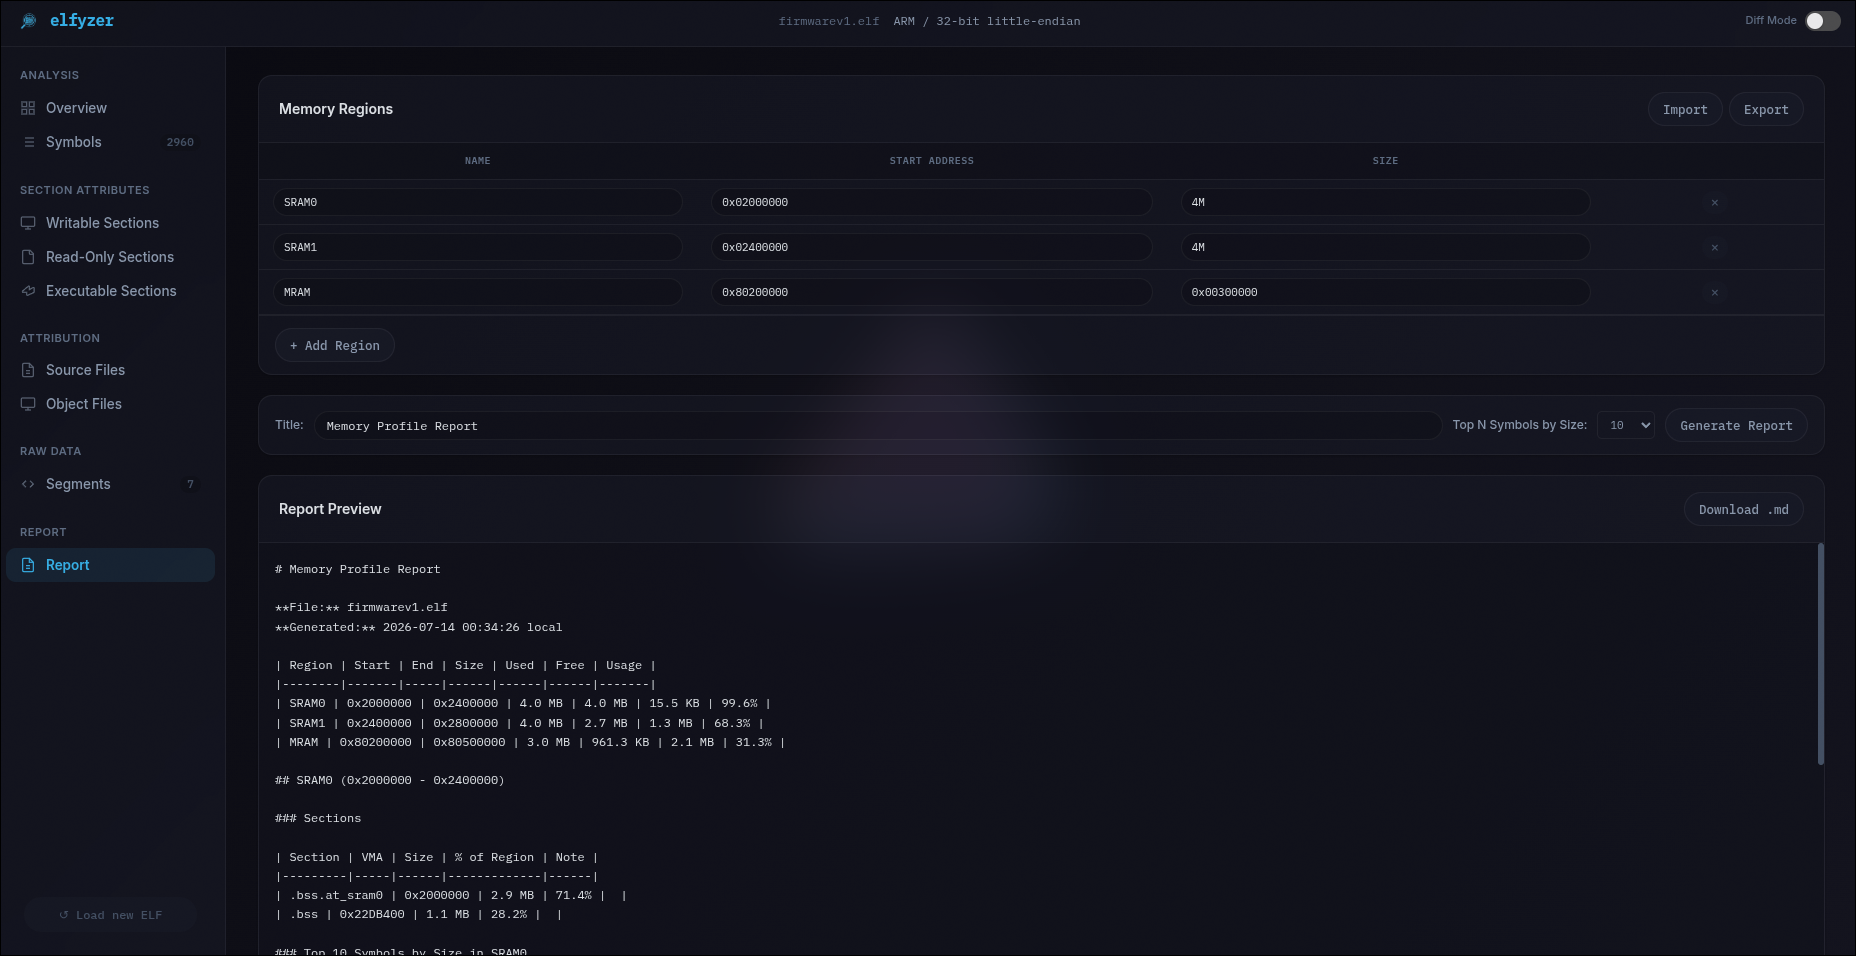
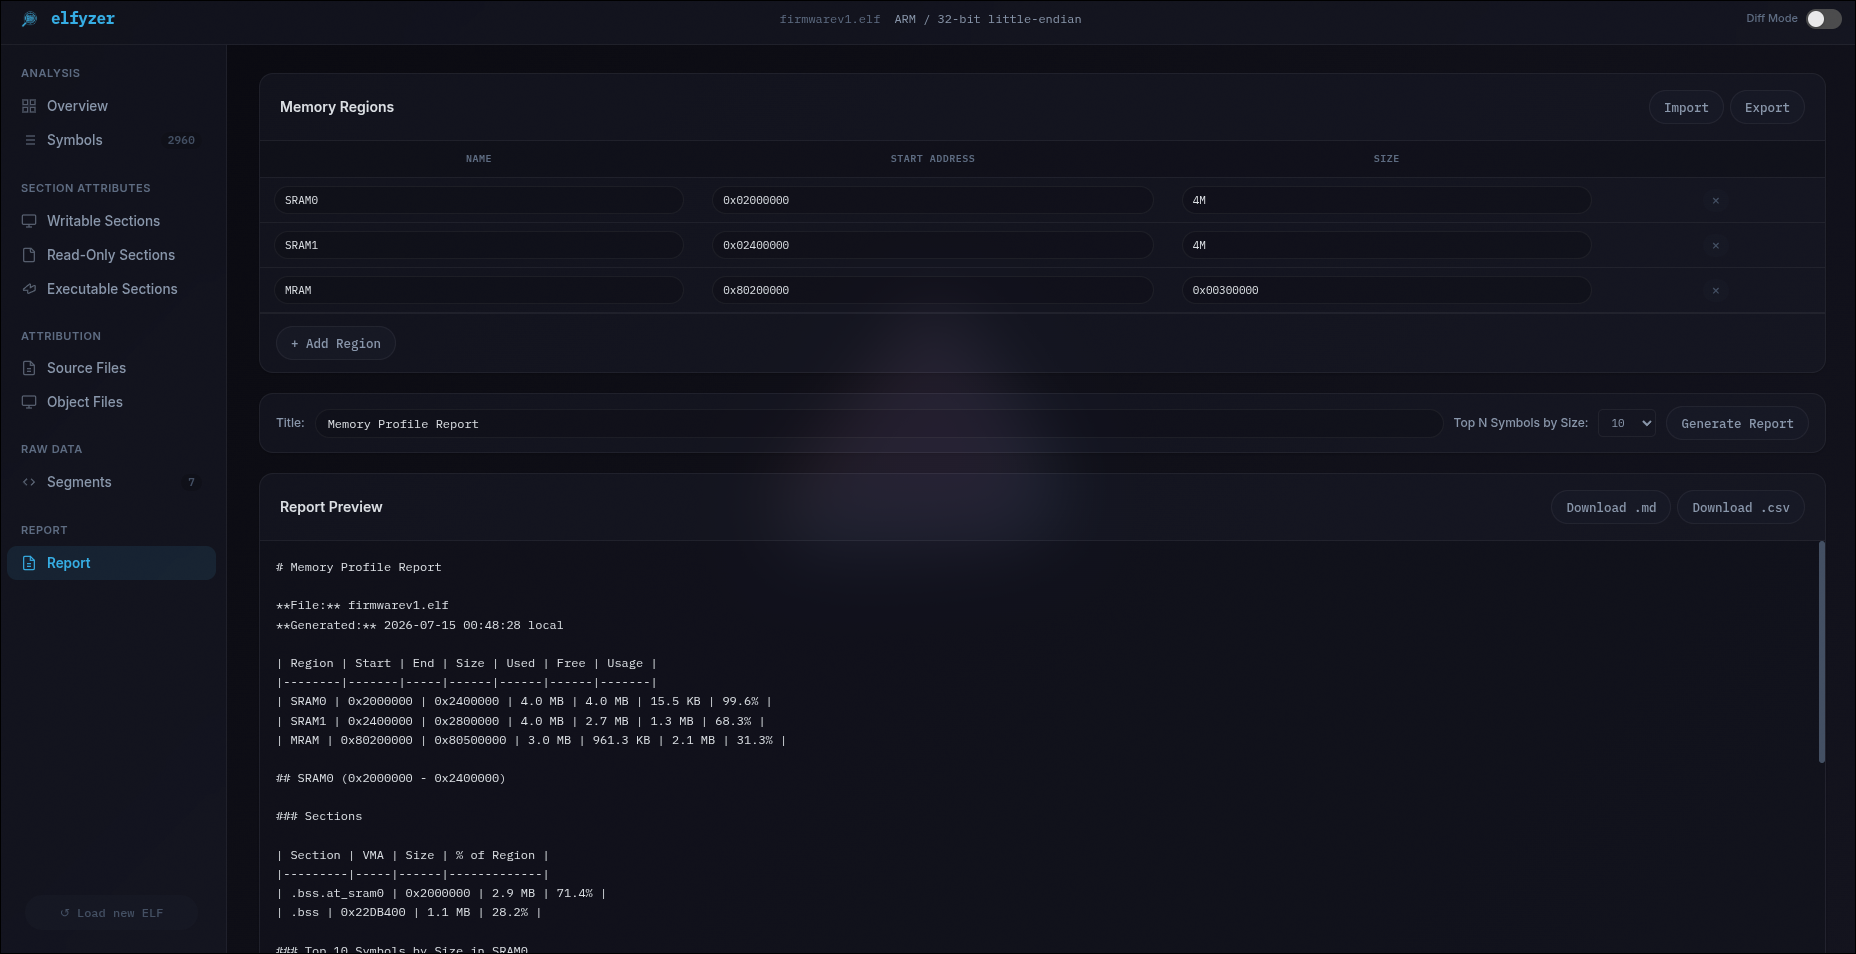
elfyzer v0.3.1: add CSV export for Memory Profile Report

diff --git a/src/elfyzer/static/js/report.js b/src/elfyzer/static/js/report.js
@@ -36,6 +36,16 @@
       .replace(/\r?\n/g, ' ');
   }
 
+  function csvEscape(str) {
+    if (str == null) return '';
+    str = String(str);
+    if (/^0x/i.test(str)) return '="' + str + '"';
+    if (str.indexOf(',') >= 0 || str.indexOf('"') >= 0 || str.indexOf('\n') >= 0 || str.indexOf('\r') >= 0) {
+      return '"' + str.replace(/"/g, '""') + '"';
+    }
+    return str;
+  }
+
   function byId(id) {
     return document.getElementById(id);
   }
@@ -440,7 +450,10 @@
         '<div class="card">' +
           '<div class="card-header">' +
             '<span class="card-title">Report Preview</span>' +
-            '<button class="btn" id="download-md-btn">Download .md</button>' +
+            '<div style="display:flex;gap:6px;align-items:center;">' +
+              '<button class="btn" id="download-md-btn">Download .md</button>' +
+              '<button class="btn" id="download-csv-btn">Download .csv</button>' +
+            '</div>' +
           '</div>' +
           '<div class="card-body" style="padding:0;">' +
             '<pre id="report-markdown" style="margin:0;padding:16px;overflow:auto;max-height:600px;font-family:var(--font-mono);font-size:12px;line-height:1.6;color:var(--text);background:var(--inset-bg);border-radius:0 0 var(--radius-lg) var(--radius-lg);white-space:pre-wrap;word-break:break-word;"></pre>' +
@@ -575,8 +588,8 @@
     } else {
       lines.push('### Sections');
       lines.push('');
-      lines.push('| Section | VMA | Size | % of Region | Note |');
-      lines.push('|---------|-----|------|-------------|------|');
+      lines.push('| Section | VMA | Size | % of Region |');
+      lines.push('|---------|-----|------|-------------|');
 
       var all = rr.usage.sections.map(function (s) { return { s: s, clipped: false }; })
         .concat(rr.usage.clippedSections.map(function (s) { return { s: s, clipped: true }; }));
@@ -589,8 +602,7 @@
           '| ' + escMarkdown(s.name || '(unnamed)') +
           ' | ' + fmtHex(s.vma) +
           ' | ' + fmtReportBytes(s.actual_size) +
-          ' | ' + secPct + '%' +
-          ' | ' + (entry.clipped ? 'crosses boundary' : '') + ' |'
+          ' | ' + secPct + '% |'
         );
       });
       lines.push('');
@@ -619,6 +631,80 @@
     }
 
     return lines;
+  }
+
+  function buildCsvReport(title, filename, regionReports, topN, symbols) {
+    var lines = [];
+
+    lines.push(csvEscape(title));
+    if (filename) lines.push('"File:",' + csvEscape(filename));
+    lines.push('"Generated:",' + csvEscape(fmtTimestamp(new Date())));
+    lines.push('');
+
+    lines.push('"Region","Start","End","Size","Used","Free","Usage"');
+    regionReports.forEach(function (rr) {
+      var r = rr.region;
+      var pct = r.size > 0 ? ((rr.usage.used / r.size) * 100).toFixed(1) : '0.0';
+      lines.push(
+        csvEscape(r.name) + ',' +
+        csvEscape(fmtHex(r.start)) + ',' +
+        csvEscape(fmtHex(r.end)) + ',' +
+        csvEscape(fmtReportBytes(r.size)) + ',' +
+        csvEscape(fmtReportBytes(rr.usage.used)) + ',' +
+        csvEscape(fmtReportBytes(rr.usage.free)) + ',' +
+        csvEscape(pct + '%')
+      );
+    });
+    lines.push('');
+
+    regionReports.forEach(function (rr) {
+      var r = rr.region;
+      lines.push(csvEscape(r.name + ' (' + fmtHex(r.start) + ' - ' + fmtHex(r.end) + ')'));
+      lines.push('');
+
+      var all = rr.usage.sections.map(function (s) { return { s: s, clipped: false }; })
+        .concat(rr.usage.clippedSections.map(function (s) { return { s: s, clipped: true }; }));
+      all.sort(function (a, b) { return b.s.actual_size - a.s.actual_size; });
+
+      if (all.length === 0) {
+        lines.push('"No allocated sections in this region."');
+      } else {
+        lines.push('"Section","VMA","Size","% of Region"');
+        all.forEach(function (entry) {
+          var s = entry.s;
+          var secPct = r.size > 0 ? ((s.actual_size / r.size) * 100).toFixed(1) : '0.0';
+          lines.push(
+            csvEscape(s.name || '(unnamed)') + ',' +
+            csvEscape(fmtHex(s.vma)) + ',' +
+            csvEscape(fmtReportBytes(s.actual_size)) + ',' +
+            csvEscape(secPct + '%')
+          );
+        });
+      }
+      lines.push('');
+
+      var regionSymbols = (symbols || []).filter(function (s) {
+        return s && s.size > 0 && s.address !== undefined && s.address !== null &&
+          s.address >= r.start && s.address < r.end;
+      }).sort(function (a, b) { return b.size - a.size; });
+      var topSymbols = regionSymbols.slice(0, topN);
+
+      if (topSymbols.length > 0) {
+        lines.push(csvEscape('Top ' + Math.min(topN, regionSymbols.length) + ' Symbols by Size in ' + r.name));
+        lines.push('"Symbol","Size","Section","Address"');
+        topSymbols.forEach(function (sym) {
+          lines.push(
+            csvEscape(sym.name || '(unnamed)') + ',' +
+            csvEscape(fmtReportBytes(sym.size)) + ',' +
+            csvEscape(sym.section || '-') + ',' +
+            csvEscape(fmtHex(sym.address))
+          );
+        });
+        lines.push('');
+      }
+    });
+
+    return '\uFEFF' + lines.join('\n');
   }
 
   function generateReport() {
@@ -674,6 +760,14 @@
     if (dlBtn) {
       dlBtn.onclick = function () {
         downloadTextFile(safeFilename(title, 'md'), md, 'text/markdown');
+      };
+    }
+
+    var csvDlBtn = byId('download-csv-btn');
+    if (csvDlBtn) {
+      csvDlBtn.onclick = function () {
+        var csv = buildCsvReport(title, filename, regionReports, topN, symbols);
+        downloadTextFile(safeFilename(title, 'csv'), csv, 'text/csv');
       };
     }
   }

diff --git a/src/elfyzer/server.py b/src/elfyzer/server.py
@@ -33,7 +33,7 @@ HOST = "127.0.0.1"
 PORT = 8000
 URL = f"http://{HOST}:{PORT}"
 MAX_UPLOAD_SIZE = 500 * 1024 * 1024
-VERSION = "0.3.0"
+VERSION = "0.3.1"
 
 BANNER = f"elfyzer v{VERSION} - Firmware Memory Analysis Platform\nDashboard: {
     URL}"

diff --git a/README.md b/README.md
@@ -102,7 +102,7 @@ The dashboard opens at `http://127.0.0.1:8000`.
 | **Source Files** | DWARF-based source-level symbol attribution |
 | **Object Files** | Object file attribution derived from source paths |
 | **Segments** | Program header table with expandable detail |
-| **Report** | Define custom memory regions and generate a Markdown report with per-region section usage, free space, and top symbols by size. Import/export regions as JSON. |
+| **Report** | Define custom memory regions and generate a Markdown or CSV report with per-region section usage, free space, and top symbols by size. Import/export regions as JSON. |
 | **Diff** | Side-by-side ELF build comparison |
 
 ### Report
@@ -111,7 +111,7 @@ The dashboard opens at `http://127.0.0.1:8000`.
 2. Click **Report** in the sidebar
 3. Add memory regions by filling in Name (e.g. `SRAM0`), Start Address (e.g. `0x20000000`), and Size (e.g. `128K`)
 4. Click **Generate Report** - a Markdown preview appears with an overview table and per-region breakdowns
-5. Click **Download .md** to save the report as a file
+5. Click **Download .md** or **Download .csv** to save the report
 6. Use **Import** / **Export** to load or save region definitions as `.json` files
 
 <div align="center">